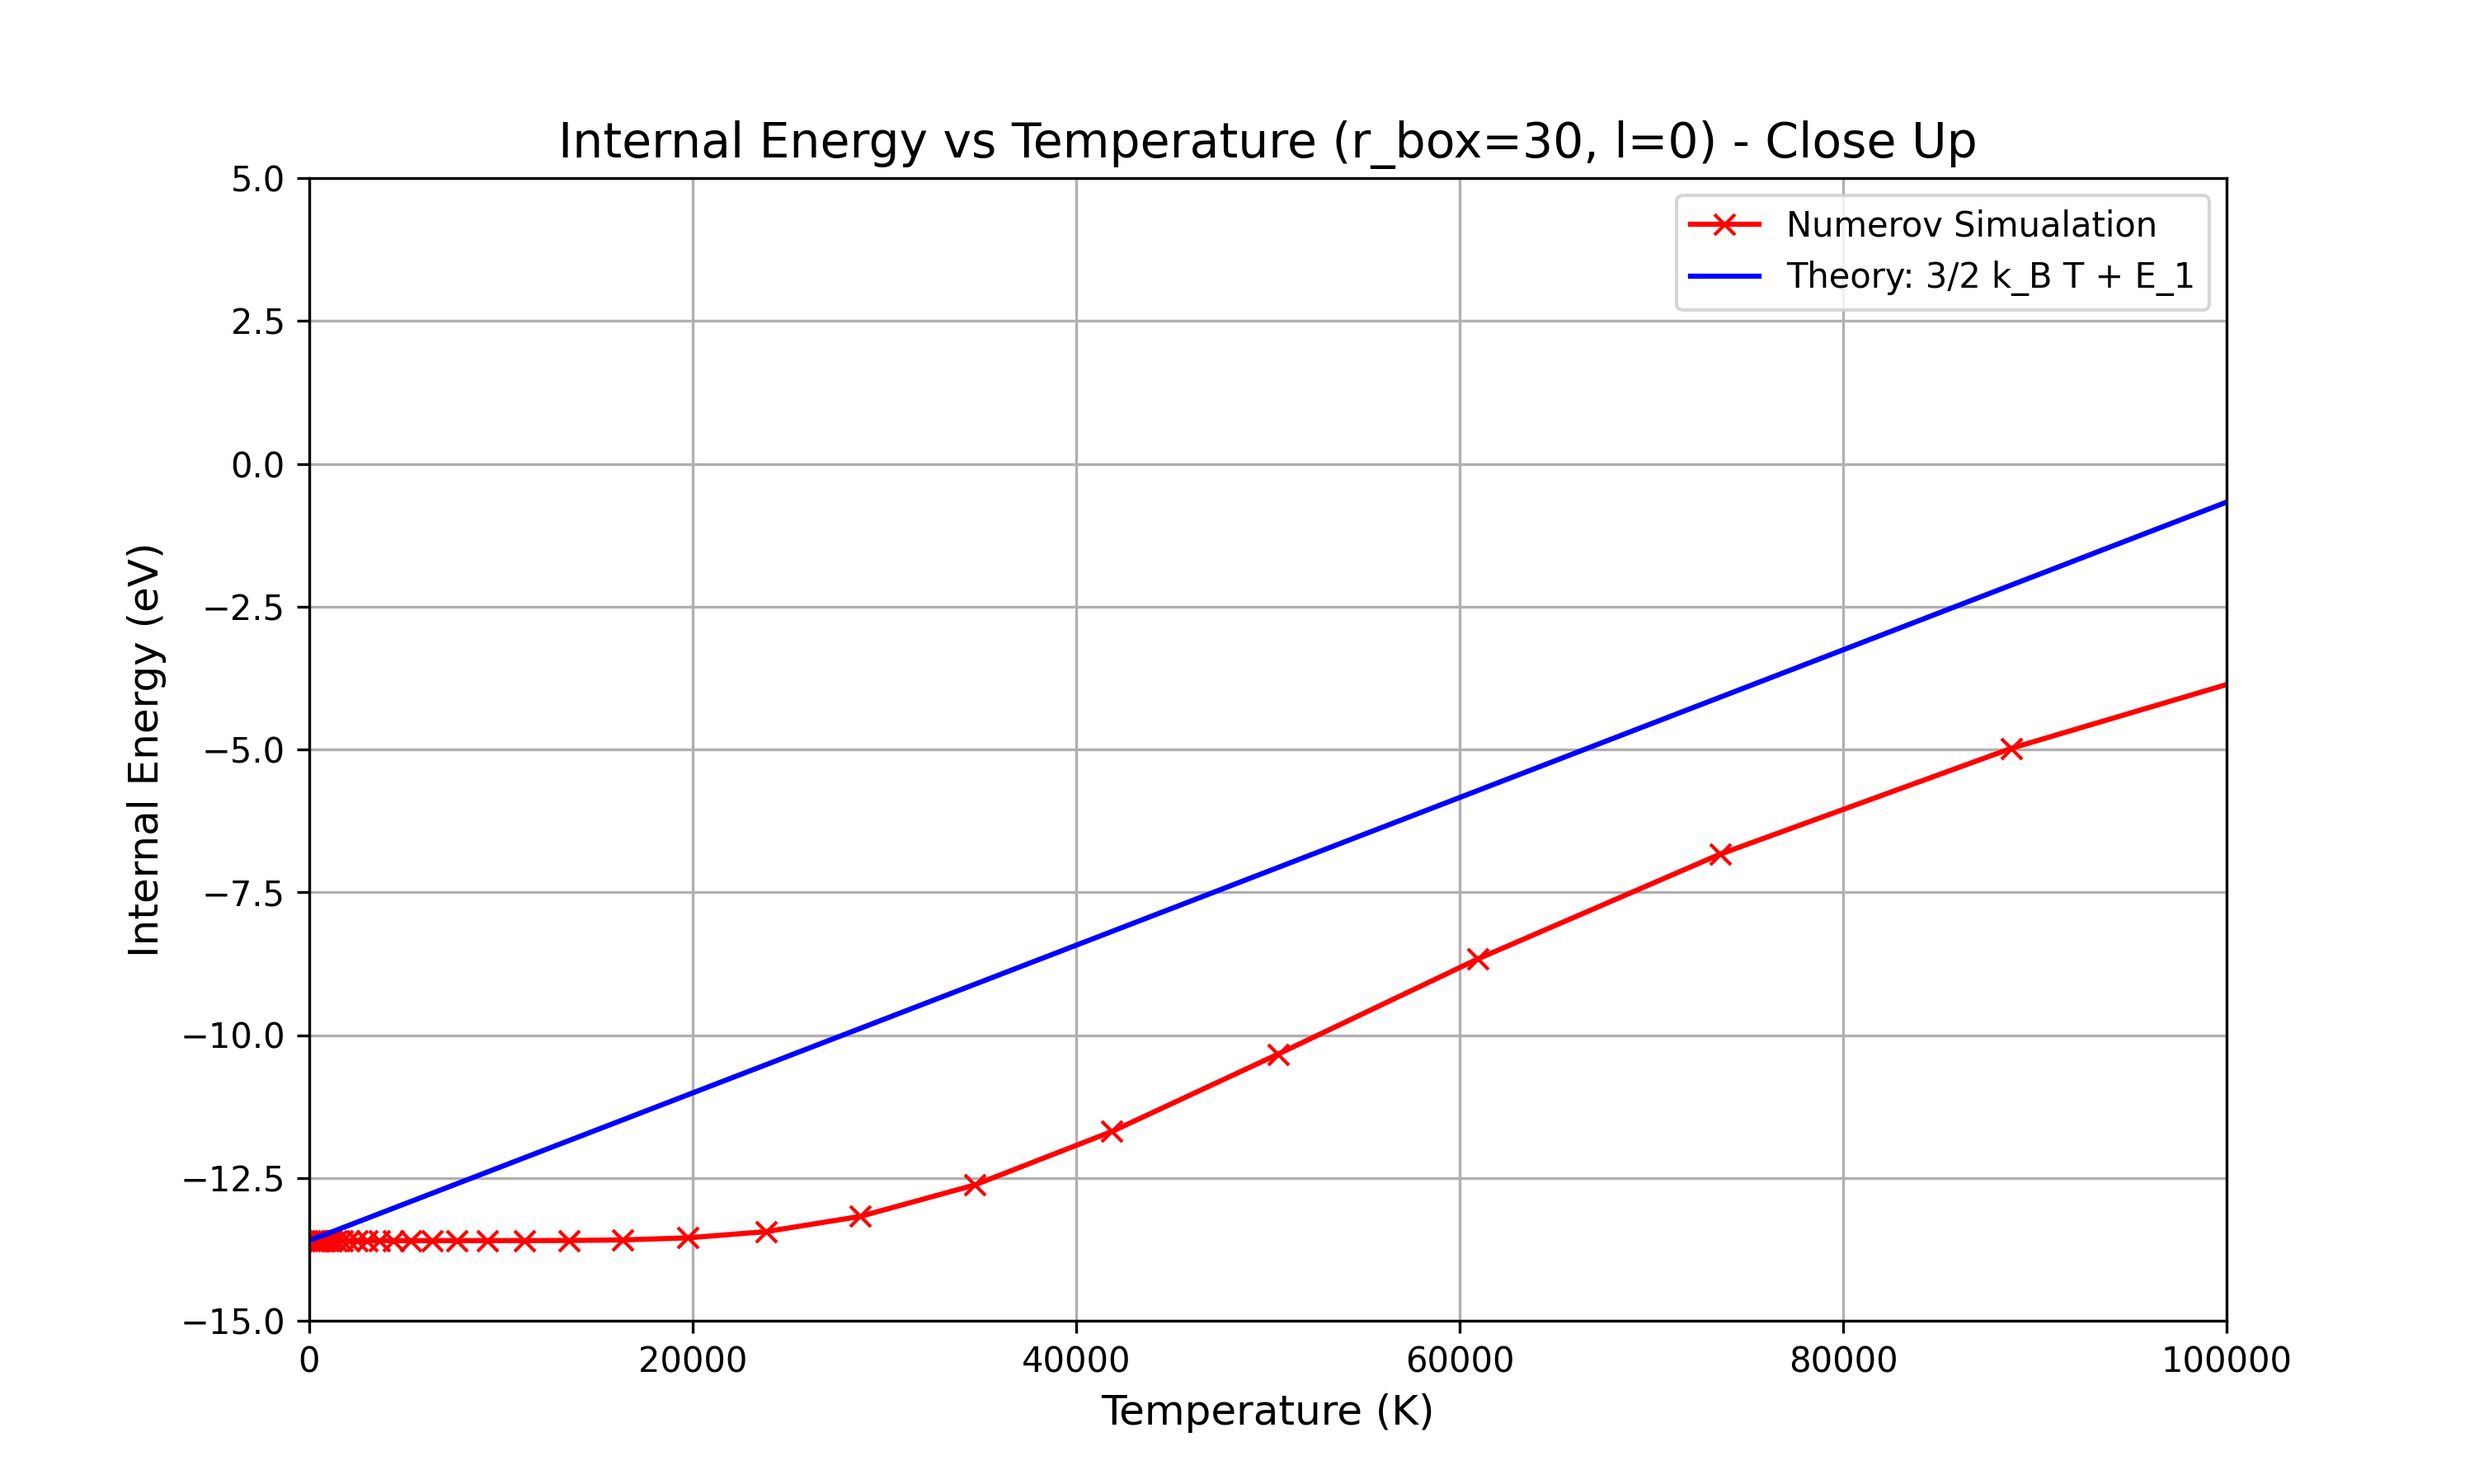
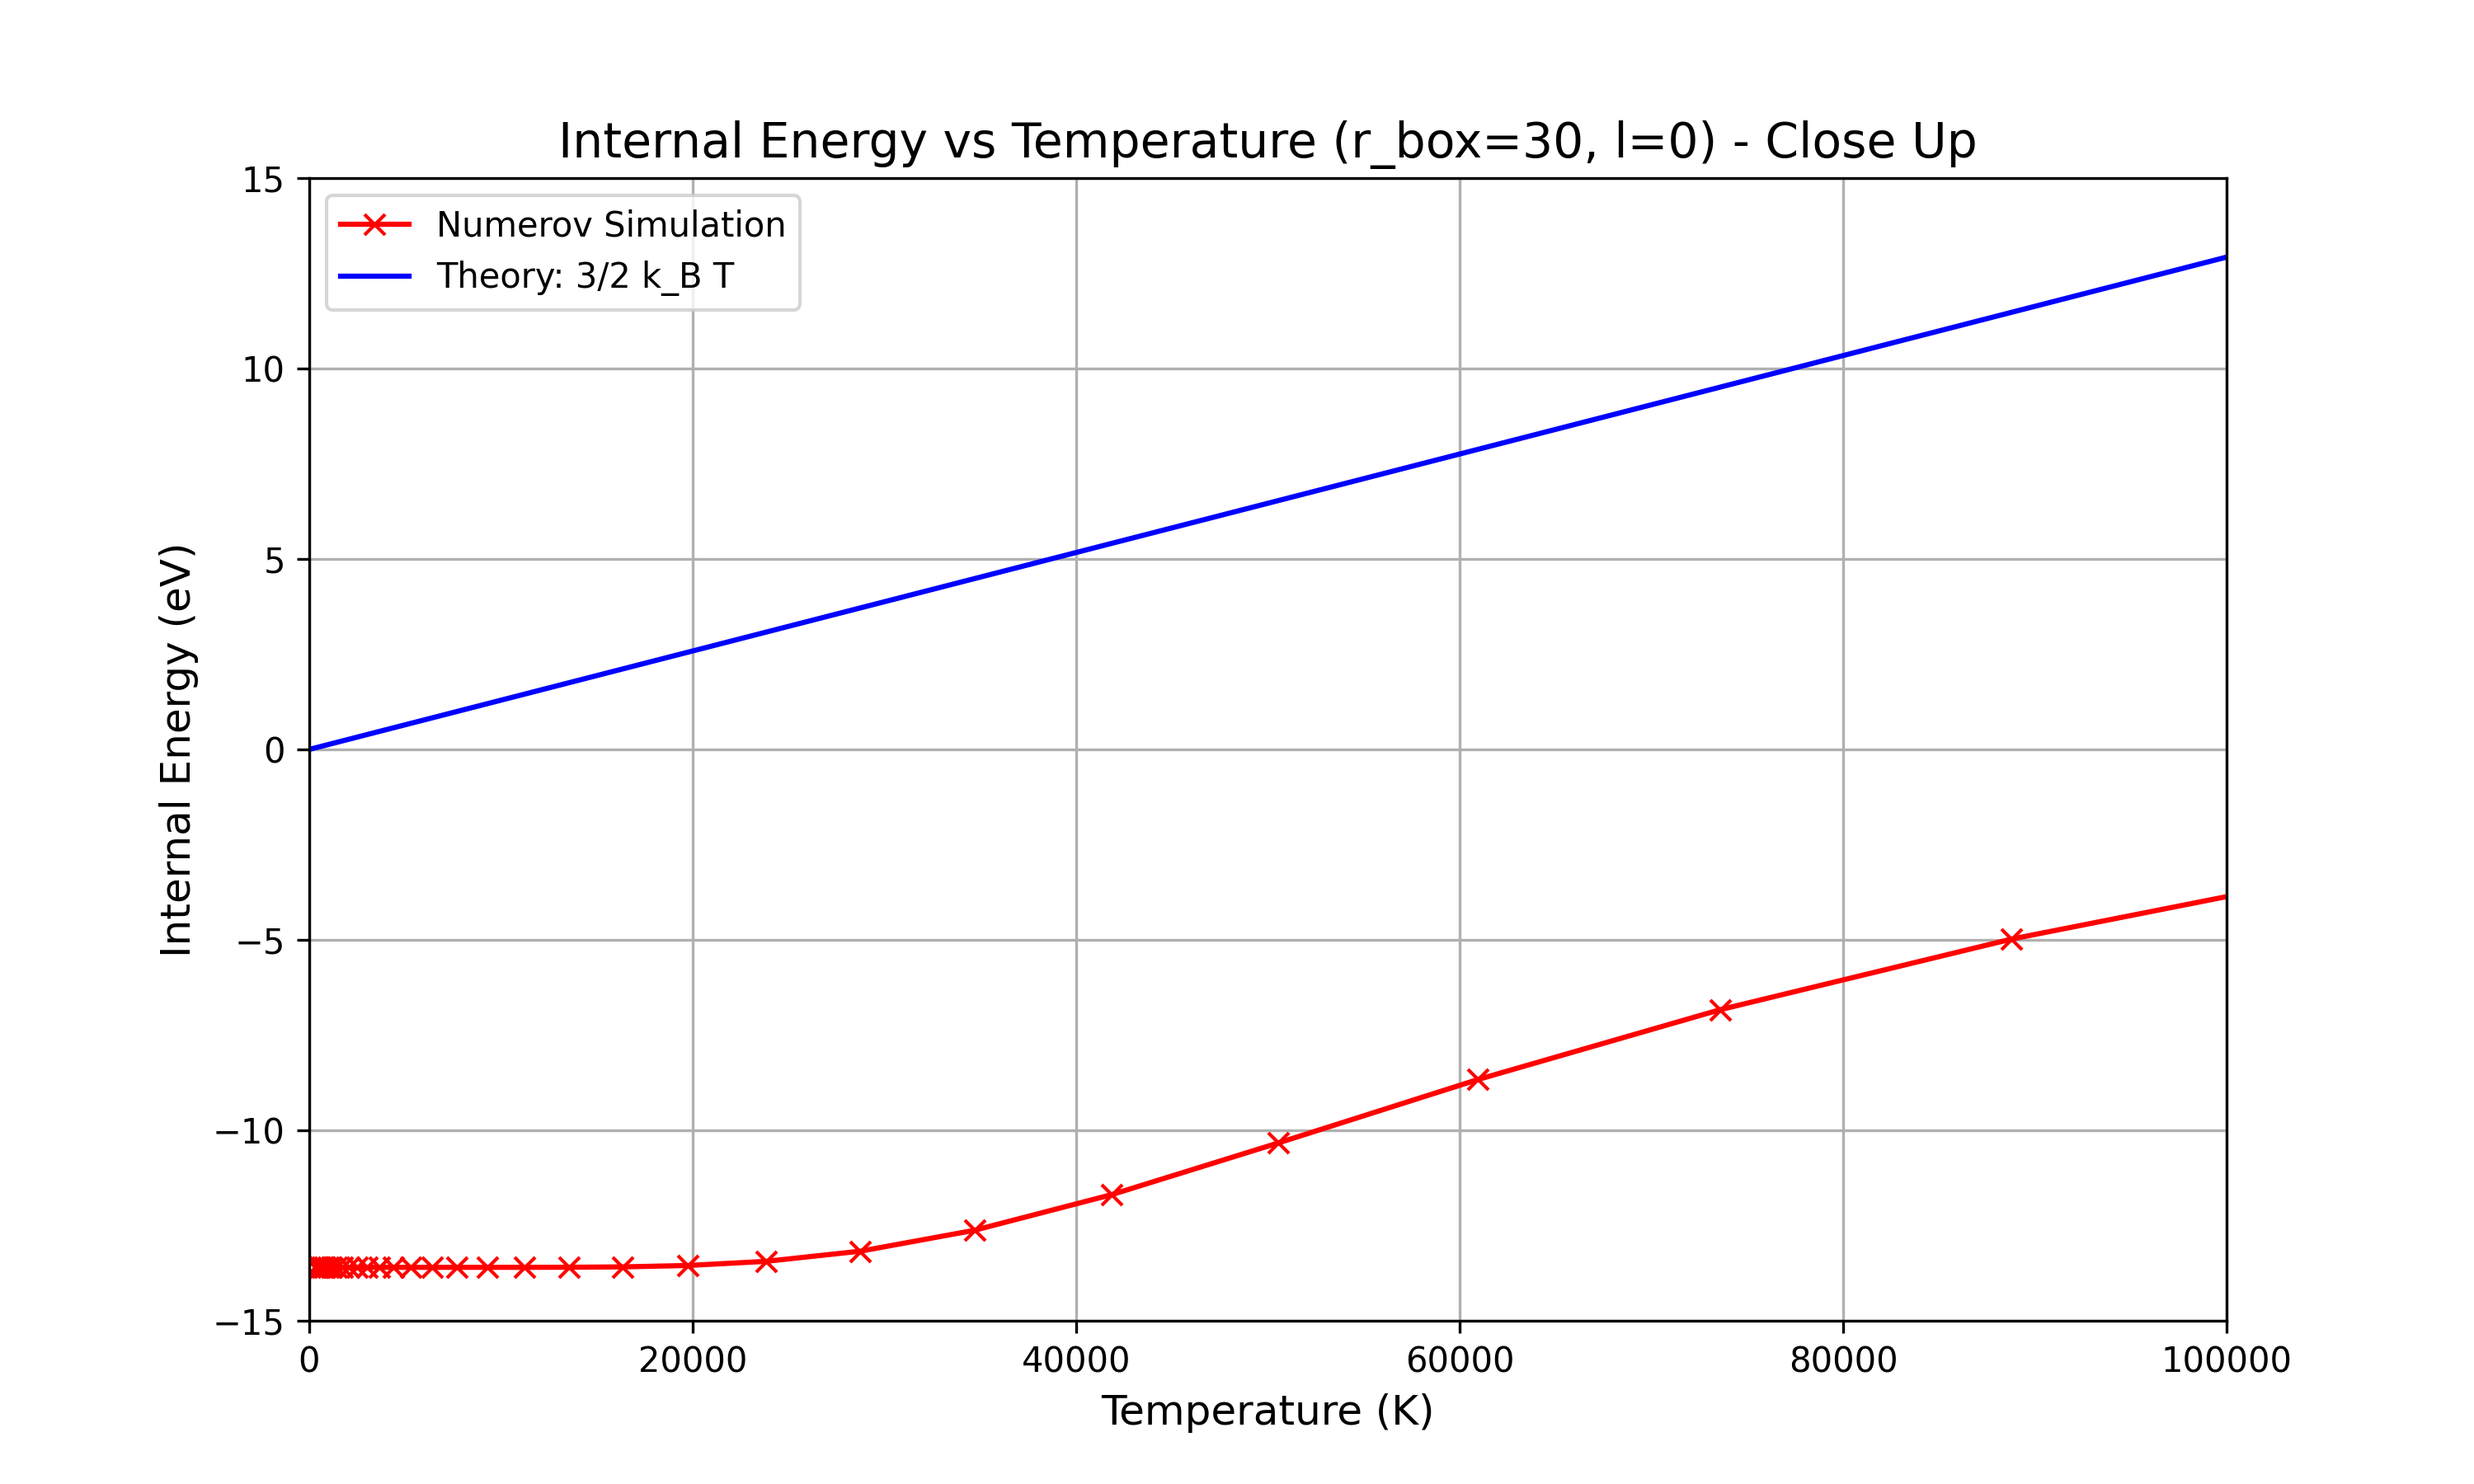
gradient runtime calculation

diff --git a/jax numerov/njax_U_plot.py b/jax numerov/njax_U_plot.py
@@ -3,7 +3,6 @@ import jax
 jax.config.update("jax_enable_x64", True)
 
 import jax.numpy as jnp
-from jax import jacrev, jit
 import os
 import matplotlib.pyplot as plt
 from njax_functions import numerov_solver, U_solver
@@ -39,18 +38,19 @@ def main():
 
     # theory values
     theory_x = jnp.linspace(0,4e6)
-    theory_y = 3/2 * 8.617e-5 * theory_x + U_array[0]
+    theory_y = 3/2 * 8.617e-5 * theory_x
 
     # global figure (no close up)
 
     plt.figure(figsize=(10,6))
-    plt.plot(temps, U_array, linestyle="-", marker="x", color="red", label = "Numerov Simualation")
-    plt.plot(theory_x, theory_y, linestyle = "-", color = "blue", label = "Theory: 3/2 k_B T + E_1")
+    plt.plot(temps, U_array, linestyle="-", marker="x", color="red", label = "Numerov Simulation")
+    plt.plot(theory_x, theory_y, linestyle = "-", color = "blue", label = "Theory: 3/2 k_B T")
     plt.xlabel("Temperature (K)", fontsize=12)
     plt.ylabel("Internal Energy (eV)", fontsize=12)
     plt.xlim((0,3e6))
     plt.title(f"Internal Energy vs Temperature (r_box={r_box}, l={l})", fontsize=14)
     plt.grid(True)
+    plt.legend()
 
     # saving
     folder_name = "plots" 
@@ -67,12 +67,12 @@ def main():
 
     # close up plot (const r_box)
     plt.figure(figsize=(10,6))
-    plt.plot(temps, U_array, linestyle="-", marker="x", color="red", label = "Numerov Simualation")
-    plt.plot(theory_x, theory_y, linestyle = "-", color = "blue", label = "Theory: 3/2 k_B T + E_1")
+    plt.plot(temps, U_array, linestyle="-", marker="x", color="red", label = "Numerov Simulation")
+    plt.plot(theory_x, theory_y, linestyle = "-", color = "blue", label = "Theory: 3/2 k_B T")
     plt.xlabel("Temperature (K)", fontsize=12)
     plt.ylabel("Internal Energy (eV)", fontsize=12)
     plt.xlim((0,1e5))
-    plt.ylim((-15,5))
+    plt.ylim((-15,15))
     plt.title(f"Internal Energy vs Temperature (r_box={r_box}, l={l}) - Close Up", fontsize=14)
     plt.grid(True)
     plt.legend()
@@ -107,7 +107,7 @@ def main():
     U_array_2 *= 27.2114
 
     plt.figure(figsize=(10,6))
-    plt.plot(r_box_array, U_array_2, linestyle="-", marker="x", color="red", label = "Numerov Simualation")
+    plt.plot(r_box_array, U_array_2, linestyle="-", marker="x", color="red", label = "Numerov Simulation")
     plt.xlabel("r_box (Ha)", fontsize=12)
     plt.xscale("log")
     plt.ylabel("Internal Energy (eV)", fontsize=12)

diff --git a/jax numerov/njax_grad_test.py b/jax numerov/njax_grad_test.py
@@ -1,0 +1,66 @@
+# housekeeping
+import jax
+jax.config.update("jax_enable_x64", True)
+
+import jax.numpy as jnp
+from jax import jacrev, jit
+import os
+import matplotlib.pyplot as plt
+from njax_functions import numerov_solver, U_solver
+import time
+import numpy as np
+
+from rich.traceback import install
+install()
+
+def main():
+    # initialization
+    r_box = 30.0
+    r_start = 1e-5
+    N_points_array = np.arange(50,1050,50)
+    l = 0
+    time_array = np.zeros(len(N_points_array))
+
+    for i in range(len(N_points_array)):
+        # defining function to obtain the gradient of
+        # has to be float input and float output
+        def E1_getter(r_box):
+            energies, _ = numerov_solver(r_box, 1e-5, N_points_array[i], l)
+            return energies[0]
+        
+        # obtaining gradient
+        grad_func = jit(jacrev(E1_getter))
+
+        # test run so that second run time is recorded
+        _ = grad_func(r_box)
+
+        start = time.time()
+        grad = grad_func(r_box)
+        grad.block_until_ready()
+        end = time.time()
+        time_array[i] = end - start
+
+    # plotting
+    plt.figure(figsize=(10,6))
+    plt.plot(N_points_array, time_array, linestyle="-", marker="x", color="red", label = "Numerov Simulation")
+    plt.xlabel("N_points", fontsize=12)
+    plt.ylabel("Time Taken (s)", fontsize=12)
+    plt.title(f"Time Taken for Gradient dE_1 / dr_box Calculation vs N_points (r_box={r_box}, l={l})", fontsize=14)
+    plt.grid(True)
+    plt.legend()
+
+    # saving
+    folder_name = "plots" 
+    script_dir = os.path.dirname(os.path.abspath(__file__))
+    plot_dir = os.path.join(script_dir, folder_name)
+
+    if not os.path.exists(plot_dir):
+        os.makedirs(plot_dir)
+        print(f"Created directory: {plot_dir}")
+
+    temp_filename = os.path.join(plot_dir, f"gradtime_rbox{r_box}_l{l}.png")
+    plt.savefig(temp_filename, dpi=300)
+
+    print("done")
+
+main()

diff --git a/jax numerov/njax_errors_plot.py b/jax numerov/njax_errors_plot.py
@@ -40,12 +40,13 @@ def main():
 
     # error vs n
     plt.figure(figsize=(10,6))
-    plt.plot(N_points_plot, errors, linestyle="-", marker="x", color="red")
+    plt.plot(N_points_plot, errors, linestyle="-", marker="x", color="red", label = "Numerov Simulation")
     plt.xlabel("N_points", fontsize=12)
     plt.ylabel("abs(E1 - (-1/2))", fontsize=12)
     plt.yscale("log")
     plt.title(f"Error vs N_points (r_box={r_box}, l={l})", fontsize=14)
     plt.grid(True)
+    plt.legend()
 
     # saving
     folder_name = "plots" 
@@ -62,11 +63,12 @@ def main():
 
     # time vs n
     plt.figure(figsize=(10,6))
-    plt.plot(N_points_plot, times, linestyle="-", marker="x", color="blue")
+    plt.plot(N_points_plot, times, linestyle="-", marker="x", color="blue", label = "Numerov Simulation")
     plt.xlabel("N_points", fontsize=12)
     plt.ylabel("Time (s)", fontsize=12)
     plt.title(f"Time vs N_points (r_box={r_box}, l={l})", fontsize=14)
     plt.grid(True)
+    plt.legend()
 
     time_filename = os.path.join(plot_dir, f"time_rbox{r_box}_l{l}.png")
     plt.savefig(time_filename, dpi=300)
